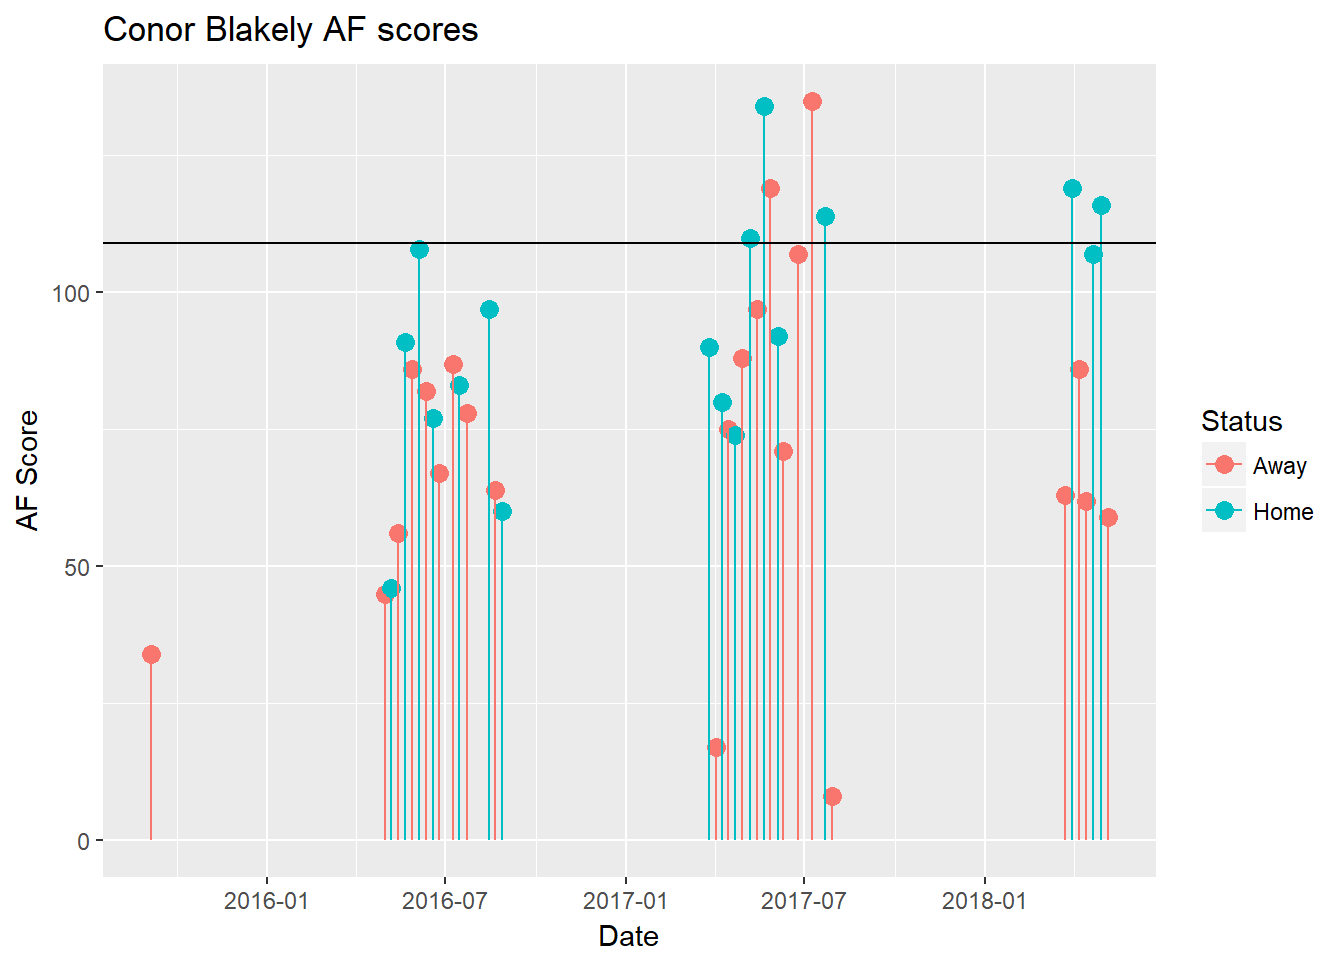
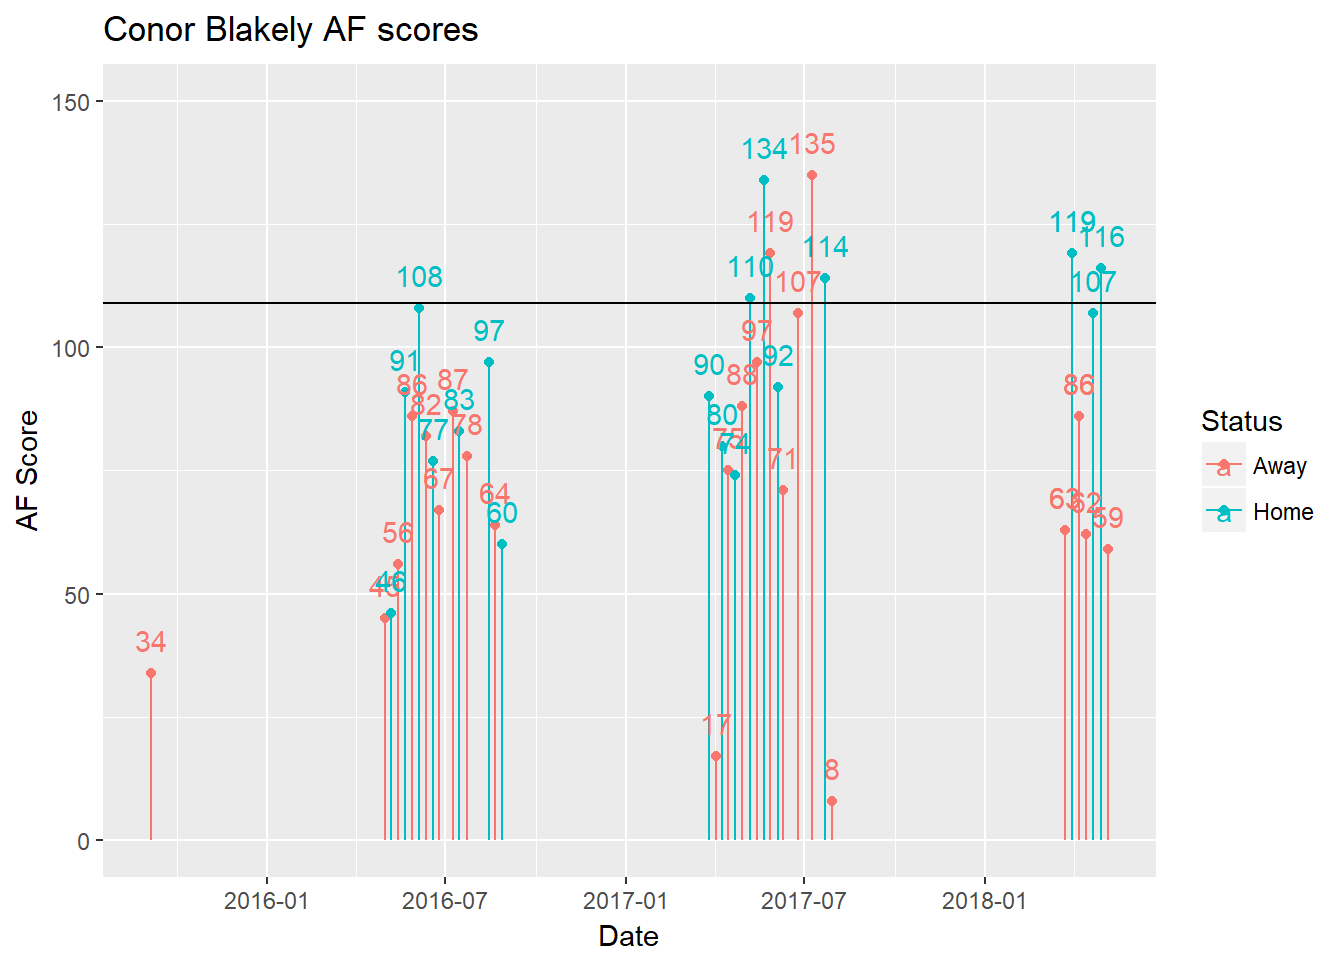
push
push

diff --git a/content/fitzRoy/2018-05-15-visualisation-of-fantasy-points.html b/content/fitzRoy/2018-05-15-visualisation-of-fantasy-points.html
@@ -1,5 +1,5 @@
 ---
-title : "2018 05 15 Visualisation of Fantasy Points"
+title : "Visualisation of Fantasy Points"
 description : ""
 author : "Robert Nguyen"
 date : 2018-05-15
@@ -25,14 +25,15 @@ df&lt;-fitzRoy::get_footywire_stats(9514:9576)</code></pre>
 <pre><code>## Finished getting data</code></pre>
 <pre class="r"><code>df1&lt;-fitzRoy::player_stats
 df2&lt;-rbind(df1, df) 
-
 df2%&gt;%
-  select(Player, AF, Date, Status)%&gt;%
-  filter(Player %in% c(&quot;Connor Blakely&quot;))%&gt;%
-  ggplot(aes(x=Date, y=AF, colour=Status))+
-  geom_point(aes(),size=3)+
-  geom_segment(aes(x=Date, xend=Date,y=0, yend=AF ))+
-  geom_hline(yintercept =109) +ggtitle(&quot;Conor Blakely AF scores&quot;)+
-  ylab(&quot;AF Score&quot;)</code></pre>
+   select(Player, AF, Date, Status)%&gt;%
+   filter(Player %in% c(&quot;Connor Blakely&quot;))%&gt;%
+   ggplot(aes(x=Date, y=AF, colour=Status))+
+   geom_point()+
+   geom_segment(aes(x=Date, xend=Date,y=0, yend=AF ))+
+   geom_hline(yintercept =109) +ggtitle(&quot;Conor Blakely AF scores&quot;)+
+   ylab(&quot;AF Score&quot;) +ylim(0,150) +geom_text(aes(label=AF),vjust=-1)</code></pre>
 <p><img src="/fitzRoy/2018-05-15-visualisation-of-fantasy-points_files/figure-html/unnamed-chunk-1-1.png" width="672" /></p>
-<p>Looks like a pretty good bet!</p>
+<p>Does that look like a good bet? You be the judge!</p>
+<p>Now let me explain things in a bit more depth</p>
+<p><code>df&lt;-fitzRoy::get_footywire_stats(9514:9576)</code> gets the most recent 2018 data from <a href="https://www.footywire.com">footywire</a> <code>df1&lt;-fitzRoy::player_stats</code> gets data that is in the <a href="https://github.com/jimmyday12/fitzRoy">fitzRoy</a> package</p>
